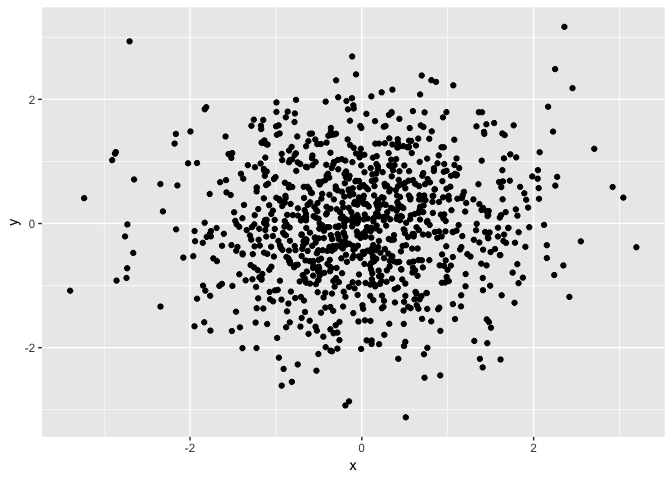
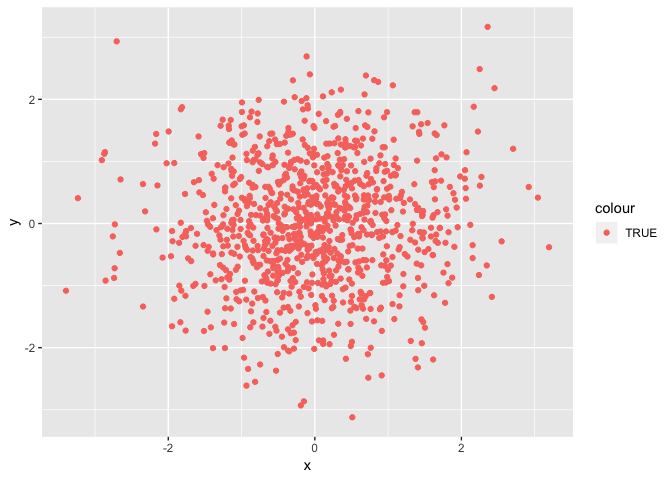
Modifying codes for problem 2 around.

diff --git a/p8105_hw1_mm5354.md b/p8105_hw1_mm5354.md
@@ -12,7 +12,7 @@ Here's a **code chunk** that samples from a *uniform distribution*:
 sample = runif(10, min=0, max=5)
 ```
 
-I can take the mean of the sample, too! The mean is 2.3029398.
+I can take the mean of the sample, too! The mean is 2.5365712.
 
 Next, creating the following required vectors: 1. A logical vector indicating whether elements of the sample are greater than 2 2. A (length-10) character vector 3. A (length-10) factor vector
 
@@ -22,7 +22,7 @@ vec_char = c("Kao","Shi","Xin","Chun","Ge","Yong","Yuan","Bu","Gua","Ke")
 vec_factor = factor(c("a", "b", "c", "d", "e", "f", "g", "h", "i", "j"))
 ```
 
-For each vector, get the means: Here is the mean for logical vector: 0.5
+For each vector, get the means: Here is the mean for logical vector: 0.7
 
 Here is the mean for character vector: NA
 
@@ -112,7 +112,19 @@ table(veclogical_checkxy) ["TRUE"]
     ##  498
 
 ``` r
-ggplot(plot_df, aes(x = x, y = y),col="green") + geom_point()
+ggplot(plot_df, aes(x = x, y = y,color = TRUE)) + geom_point()
 ```
 
 ![](p8105_hw1_mm5354_files/figure-markdown_github/scatter_plot-1.png)
+
+``` r
+ggplot(plot_df, aes(x = x, y = c(facvec_checkxy),color = TRUE)) + geom_point()
+```
+
+![](p8105_hw1_mm5354_files/figure-markdown_github/scatter_plot2-1.png)
+
+``` r
+ggplot(plot_df, aes(x = x, y = c(numvec_checkxy),color = TRUE)) + geom_point()
+```
+
+![](p8105_hw1_mm5354_files/figure-markdown_github/scatter_plot3-1.png)
